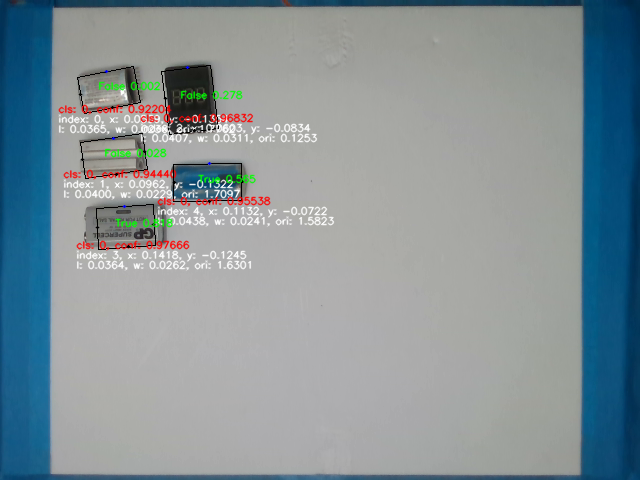
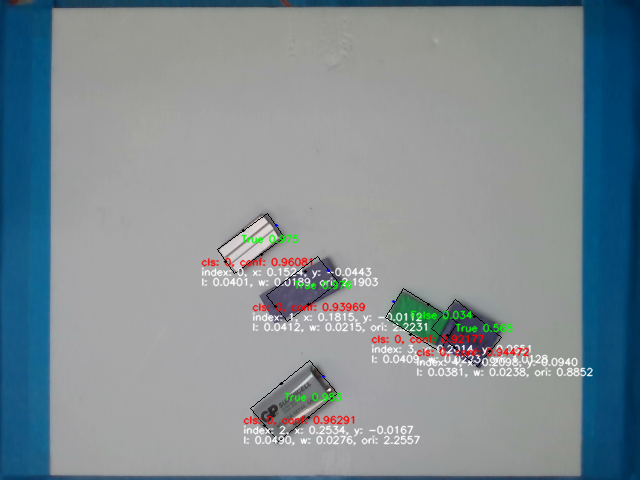
zzz Alienware update

diff --git a/main.py b/main.py
@@ -141,14 +141,14 @@ class knolling_main():
                     lwh_list_input = lwh_list.astype(np.float32)
                     ori_after = np.zeros((len(ori_before_input), 3))
 
-                    # #################### exchange the length and width randomly enrich the input ##################
-                    # for j in input_index:
-                    #     if np.random.random() < 0.5:
-                    #         temp = lwh_list_input[j, 1]
-                    #         lwh_list_input[j, 1] = lwh_list_input[j, 0]
-                    #         lwh_list_input[j, 0] = temp
-                    #         ori_after[j, 2] += np.pi / 2
-                    # #################### exchange the length and width randomly enrich the input ##################
+                    #################### exchange the length and width randomly enrich the input ##################
+                    for j in input_index:
+                        if np.random.random() < 0.5:
+                            temp = lwh_list_input[j, 1]
+                            lwh_list_input[j, 1] = lwh_list_input[j, 0]
+                            lwh_list_input[j, 0] = temp
+                            ori_after[j, 2] += np.pi / 2
+                    #################### exchange the length and width randomly enrich the input ##################
 
                     # input include all objects(finished, success, fail),
                     pos_after = self.arrange_model.pred(pos_before_input, ori_before_input, lwh_list_input, input_index)
@@ -255,7 +255,8 @@ class knolling_main():
         restrict_gripper_diagonal = np.sqrt(gripper_width ** 2 + gripper_height ** 2)
         gripper_box_gap = 0.006
 
-        while len(crowded_index) >= len(self.rest_index):
+        while len(crowded_index) >= 1:
+            # len(crowded_index) >= len(self.rest_index):
 
             crowded_pos = self.manipulator_before[crowded_index, :3]
             crowded_ori = self.manipulator_before[crowded_index, 3:6]
@@ -400,7 +401,11 @@ class knolling_main():
             ######################### remove the debug lines after moving ######################
 
             self.exclude_objects()
-            crowded_index = np.intersect1d(np.where(self.pred_cls == 0)[0], self.rest_index)
+
+            ######### this is temp setting, to make all objects graspable ########
+            # crowded_index = np.intersect1d(np.where(self.pred_cls == 0)[0], self.rest_index)
+            crowded_index = np.where(self.pred_cls == 0)[0]
+            ######### this is temp setting, to make all objects graspable ########
 
             ################## Check the results to determine whether to clean again #####################
             # self.manipulator_before, self.lwh_list, self.pred_cls, self.pred_conf = self.task.get_obs()
@@ -673,7 +678,7 @@ if __name__ == '__main__':
                  'save_img_flag': True,
                  'init_pos_range': [[0.03, 0.27], [-0.15, 0.15], [0.01, 0.02]], 'init_offset_range': [[-0.00, 0.00], [-0., 0.]],
                  'init_ori_range': [[-np.pi / 4, np.pi / 4], [-np.pi / 4, np.pi / 4], [-np.pi / 4, np.pi / 4]],
-                 'boxes_num': np.random.randint(10, 11),
+                 'boxes_num': np.random.randint(5, 6),
                  'is_render': True,
                  'box_range': [[0.016, 0.048], [0.016], [0.01, 0.02]],
                  'box_mass': 0.1,
@@ -727,9 +732,9 @@ if __name__ == '__main__':
     if para_dict['real_operate'] == True:
         lstm_dict['threshold'] = 0.40
 
-    arrange_dict = {'running_name': 'devoted-terrain-29',
+    arrange_dict = {'running_name': 'autumn-meadow-16',
                     'transformer_model_path': './ASSET/models/devoted-terrain-29',
-                    'use_yaml': True,
+                    'use_yaml': False,
                     'arrange_x_offset': 0.03,
                     'arrange_y_offset': 0.00}
 

diff --git a/ENV/robot/KnollingRobot.py b/ENV/robot/KnollingRobot.py
@@ -25,8 +25,8 @@ class knolling_robot():
 
         if self.para_dict['real_operate'] == True:
 
-            HOST = "192.168.0.188"  # Standard loopback interface address (localhost)
-            PORT = 8880 # Port to listen on (non-privileged ports are > 1023)
+            HOST = "192.168.0.189"  # Standard loopback interface address (localhost)
+            PORT = 8881 # Port to listen on (non-privileged ports are > 1023)
             s = socket.socket(socket.AF_INET, socket.SOCK_STREAM)
             s.bind((HOST, PORT))
             # It should be an integer from 1 to 65535, as 0 is reserved. Some systems may require superuser privileges if the port number is less than 8192.
